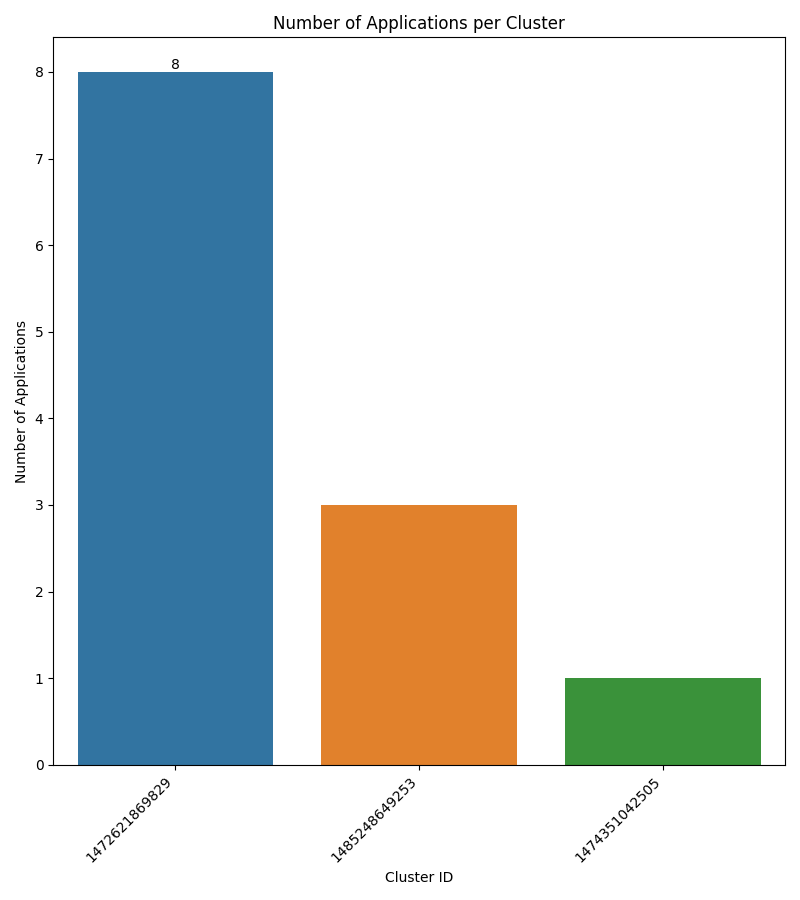
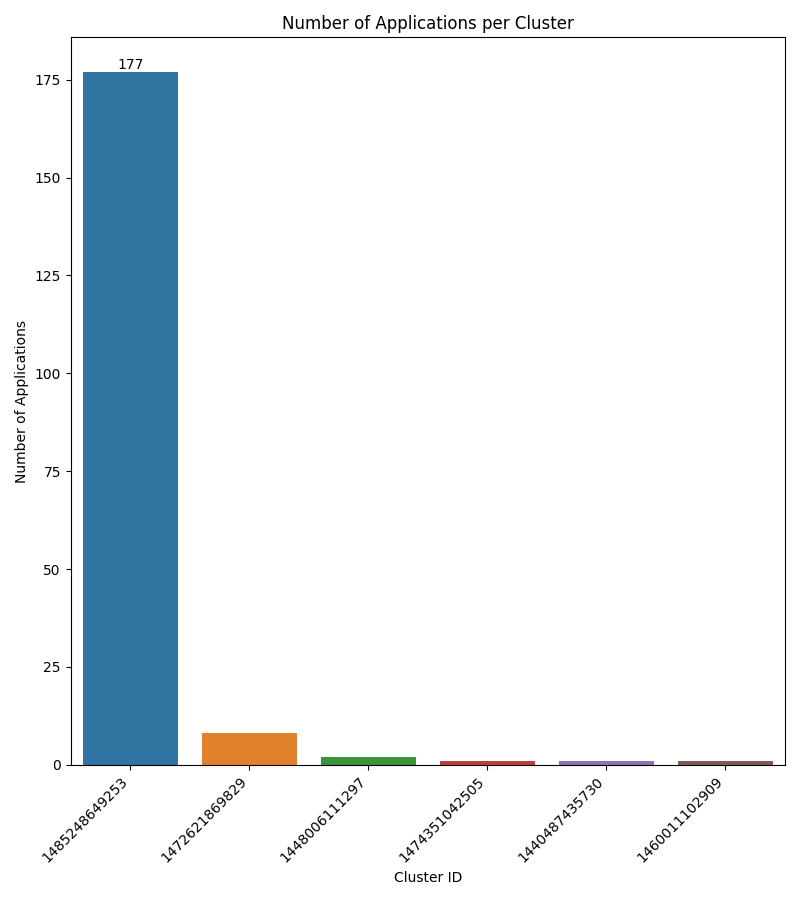
final_submission

diff --git a/problem2.py b/problem2.py
@@ -238,7 +238,7 @@ def solve_problem1(spark, data_files):
     print(f"Total applications: {total_apps}")
     print(f"Average applications per cluster: {round(total_apps/unique_clusters,2)}")
     print("Most heavily used clusters:")
-    for i in range(0,3):
+    for i in range(0,len(pandas_cluster_df)):
         print(f"Cluster {pandas_cluster_df['cluster_id'][i]}:  {pandas_cluster_df['num_applications'][i]} applications")
 
     # Save the summary stats
@@ -251,7 +251,7 @@ def solve_problem1(spark, data_files):
         f.write(f"Total applications: {total_apps}\n")
         f.write(f"Average applications per cluster: {round(total_apps/unique_clusters,2)}\n")
         f.write("Most heavily used clusters:\n")
-        for i in range(0,3):
+        for i in range(0,len(pandas_cluster_df)):
             f.write(f"Cluster {pandas_cluster_df['cluster_id'][i]}:  {pandas_cluster_df['num_applications'][i]} applications\n")
 
     print(f"\nStep 7: ✅ Results saved to {output_file_summary}\n")
@@ -329,7 +329,7 @@ def main():
     # Solve Problem 2
     try:
         logger.info("Starting Problem 2 analysis with s3 bucket")
-        solve_problem1(spark, app_directories[4:16])
+        solve_problem1(spark, app_directories)
         success = True
         logger.info("Problem 2 analysis completed successfully")
     except Exception as e:

diff --git a/ANALYSIS.md b/ANALYSIS.md
@@ -1,7 +1,36 @@
 # Analysis Report
 
-   - Brief description of your approach for each problem
-   - Key findings and insights from the data
-   - Performance observations (execution time, optimizations)
-   - Screenshots of Spark Web UI showing job execution
-   - Explanation of the visualizations generated in Problem 2
+## Problem 1 approach:
+This problem was less about the summaries and rather just trying to read in the data properly from the logs and then figuring out how to parse it once it was in. I also was trying to plan ahead and add in the application_id and container_id (though container id was not needed). I was originally having issues with the first file in the application, but I was able to filter that file out entirely. Then I realized that the lines with 'SLF4J' were cause me to not be able to parse the logs, and I had to filter those lines out. After that, using pyspark wasn't difficult to get the requested summaries. I did have to change my approach to how to get the application_id, I was reading the application and container_ids, by container, but I changed it to by application since that was taking too much computing power. I also learned about the 'input_file_name' function, which meant I didn't have to record the ids while I was reading in the dataframes, I could do it after.
+
+## Problem 2 approach:
+I ended up doing most of the heavy lifting in the first problem with getting the application and container ids, but I did realized I need the cluster_ids as well for problem two. I just got the container ids the same way I did the application ids. From there is was just using pyspark and summary stats. I created the duration column while still in the spark dataframe though, rather than in pandas. And then once I converted to pandas, I subsetted for the largest cluster to get that smaller dataframe. The seaborn visuals were created with the panadas dataframes. 
+
+## Key Findings from the Data:
+The hardest part about this kind of data was that it was text files that had to read read in line by line and there was a lot of non-uniformity in the text and that so much value was derived from the file names. It was a good lesson in understanding you data structures and input data. The data literacy page was also important when trying to understand the logs itself. 
+
+## Performance Observations:
+I did have to optimize my code at one point during problem one because it was taking too much computing power and time (~40 min and still not done). I found the input_file_name function and that allowed me to not have to read in the spark dataframes by container. I did maintain the application level read in so that I could control testing more. That would be a further optimization if needed. 
+
+
+## Spark Web UI
+
+![Spark UI before running](images/spark_UI.png)
+
+![Spark UI running - 3 apps](images/spark_UI_running_test.png)
+
+![Spark UI running problem 2](images/spark_UI_running_p2.png)
+
+![Spark UI Executors Page](images/spark_UI_executors.png)
+
+![Spark UI SQL page](images/spark_UI_SQL.png)
+
+## Explanation of Visualizations
+
+![Cluster Bar Chart](data/output/problem2_bar_chart.png)
+
+This bar chart shows that over 90% of the applications were completed on one of the 6 clusters. All the other clusters had minute numbers of applications compared to the largest cluster. 
+
+![Job Duration Density Plot - Largest Cluster](data/output/problem2_density_plot.png)
+
+This density plot shows that most of the jobs were completed in under 1000 seconds but there were a few jobs that greatly exceed that timeline, especially considering that it is a log scale. Quite a few jobs took exponentially longer than the majority of the jobs. 
